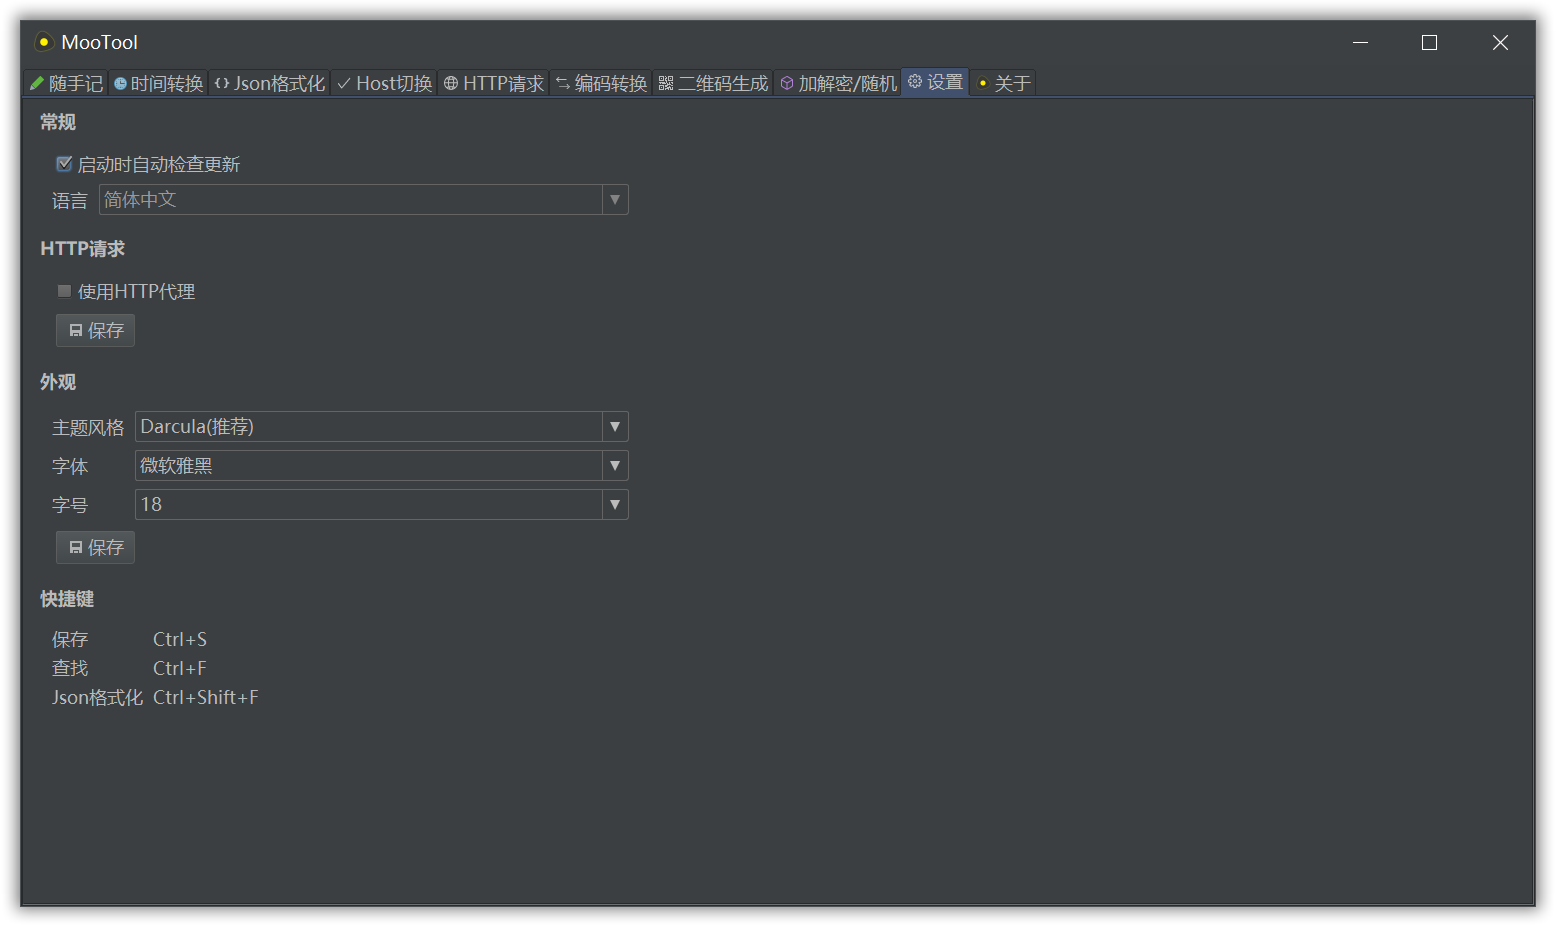
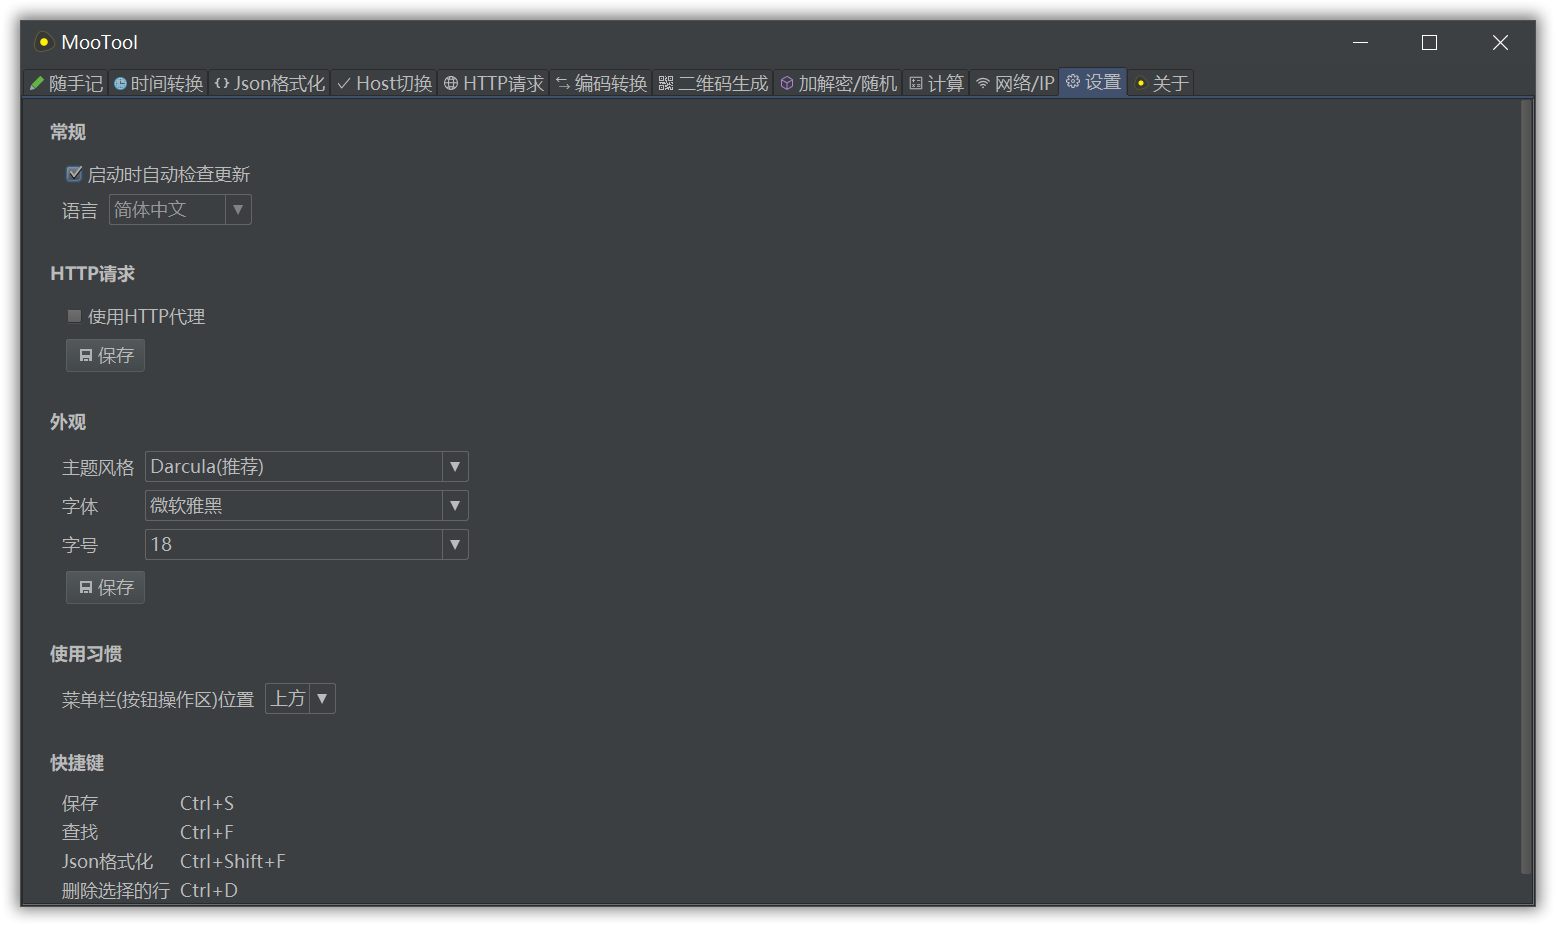
update:更新截图

diff --git a/readme.md b/readme.md
@@ -100,6 +100,18 @@ A handy desktop toolset for developers.
   </a>
 </p>  
 
+<p align="center">
+  <a href="https://raw.githubusercontent.com/rememberber/MooTool/master/screen_shoot/mt-calculator.png">
+   <img alt="MooTool" src="https://raw.githubusercontent.com/rememberber/MooTool/master/screen_shoot/mt-calculator.png">
+  </a>
+</p>  
+
+<p align="center">
+  <a href="https://raw.githubusercontent.com/rememberber/MooTool/master/screen_shoot/mt-net.png">
+   <img alt="MooTool" src="https://raw.githubusercontent.com/rememberber/MooTool/master/screen_shoot/mt-net.png">
+  </a>
+</p>  
+
 ### 安装文件下载
 
 [MooTool下载地址](https://gitee.com/zhoubochina/MooTool/wikis/download)  
